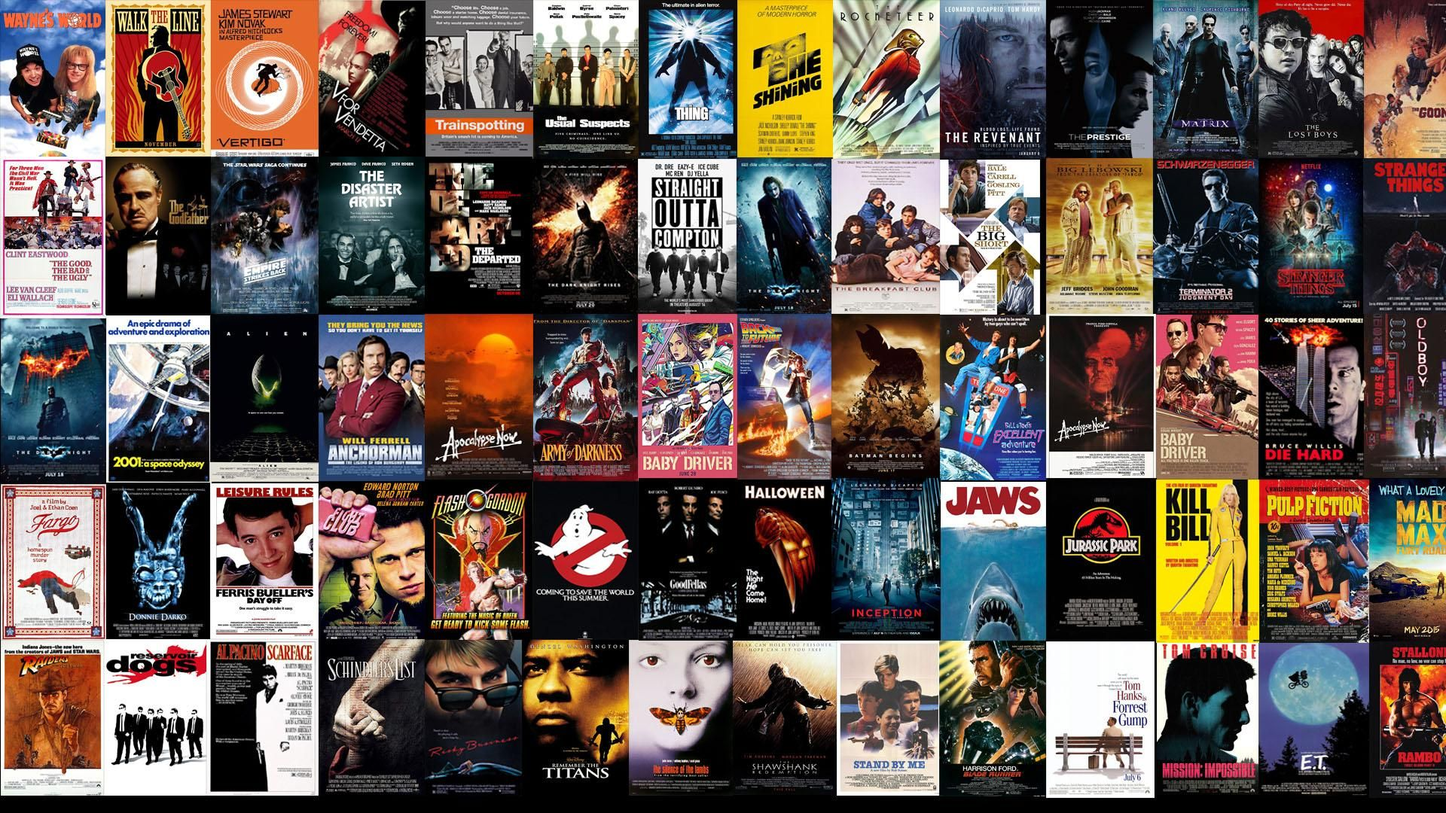
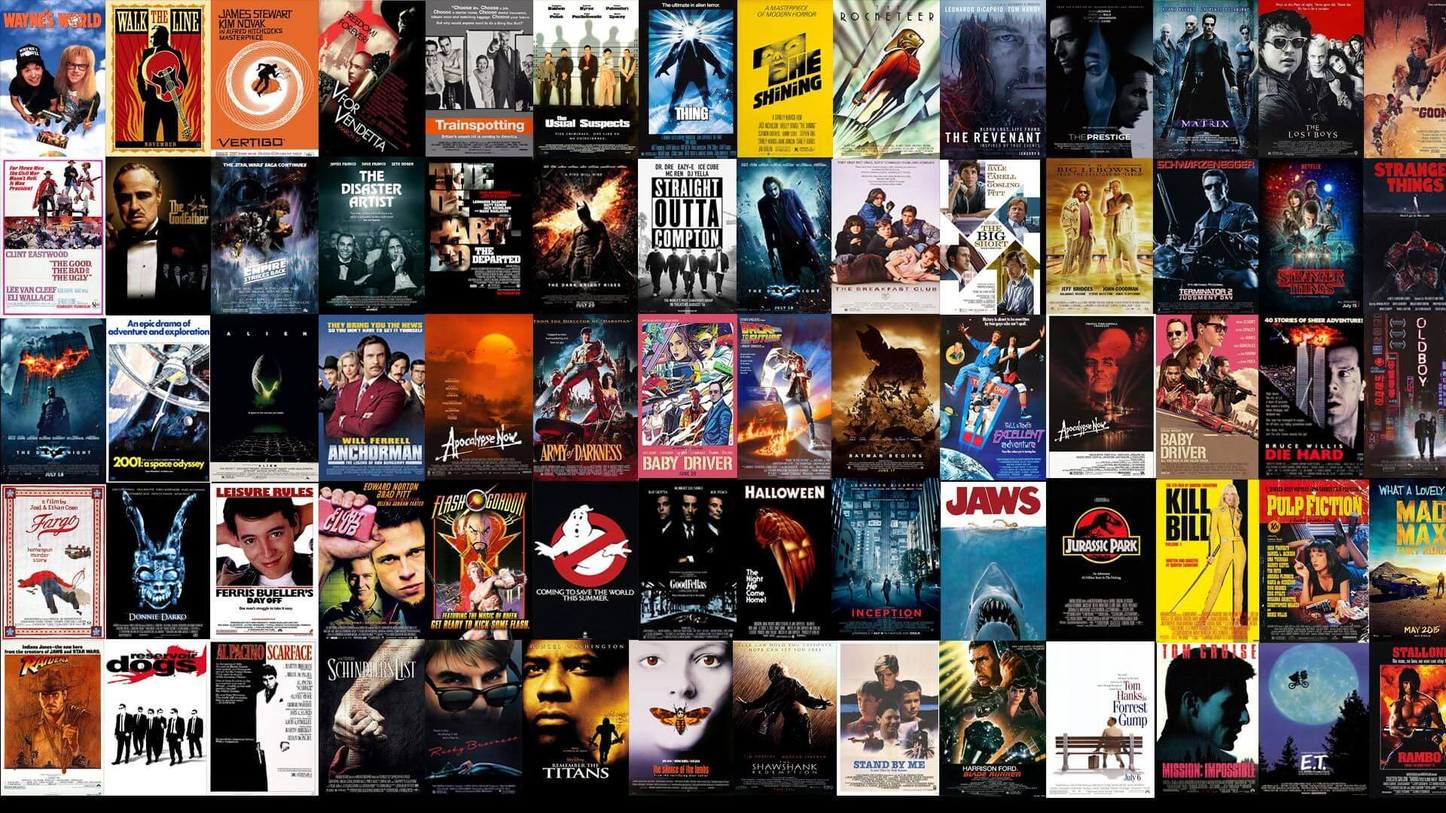
Compress bg poster; Fix styles; Move media-query into single scss file; Rename functions.

diff --git a/src/components/SingleMediaElementList.vue b/src/components/SingleMediaElementList.vue
@@ -2,10 +2,10 @@
   <li>
     <b-card
       text-variant="white"
-      :img-src="img 
-        ? 'https://image.tmdb.org/t/p/w185/' + img 
-        : 'https://d3aa3603f5de3f81cb9fdaa5c591a84d5723e3cb.hosting4cdn.com/wp-content/uploads/2020/11/404-poster-not-found-CG17701-1.png'"
-      :title="caption"
+      :img-src="imgPath 
+        ? 'https://image.tmdb.org/t/p/w185/' + imgPath 
+        : 'https://dummyimage.com/300x450/000/00ff8c'"
+      :title="captionElement"
       class="element"
     >
     </b-card>
@@ -19,12 +19,12 @@ export default {
     element: Object
   },
   computed: {
-    img(){
+    imgPath(){
       return ('profile_path' in this.element) ? this.element.profile_path
         : ('poster_path' in this.element) ? this.element.poster_path
           : "";
     },
-    caption(){
+    captionElement(){
       return ('name' in this.element) ? this.element.name
         : ('title' in this.element) ? this.element.title
           : "";
@@ -34,7 +34,8 @@ export default {
 </script>
   
 <style scoped lang="scss">
-  @import "../assets/scss/variables.scss";
+@import "../assets/scss/variables.scss";
+@import "../assets/scss/carusel-responsive.scss";
   .element {
     height: $cardHeight; 
     width: $cardWidth;
@@ -43,37 +44,14 @@ export default {
     border: 0;
     background: transparent;
   }
-  .card-img, .card-img-bottom { 
+  .card-img,
+  .card-img-bottom { 
     border: 10px solid rgb(97, 47, 183);
     box-shadow: 0px 0px 12px 0px rgba(0,0,0,0.75);
   }
   .card-title {
     height: 60px;
     overflow: hidden;
-  }
-  @media (max-width: 1400px) and (min-width: 991px) {
-    .element {
-      height: $cardHeight*0.85;
-      width: $cardWidth*0.85;
-    }
-  }
-  @media (max-width: 990px) and (min-width: 768px) {
-    .element {
-      height: $cardHeight*0.79;
-      width: $cardWidth*0.79;
-    }
-  }
-  @media (max-width: 767px) and (min-width: 576px) {
-    .element {
-      height: $cardHeight*0.78;
-      width: $cardWidth*0.78;
-    }
-  }
-  @media (max-width: 575px) {
-    .element {
-      height: $cardHeight*0.70;
-      width: $cardWidth*0.70;
-    }
   }
 </style>
   

diff --git a/src/components/Footer.vue b/src/components/Footer.vue
@@ -46,13 +46,12 @@
                 </div>
                 <div class="col-md-5 offset-md-1 mb-3">
                     <form>
-                        <h5>Subscribe to our newsletter</h5>
-                        <p>Monthly digest of what's new and exciting from us.</p>
-                        <div class="d-flex flex-column flex-sm-row w-100 gap-2">
-                            <label for="newsletter" class="visually-hidden">Email address</label>
-                            <input id="newsletter" type="text" class="form-control" placeholder="Email address">
-                            <button class="btn btn-dark" type="button">Subscribe</button>
-                        </div>
+                        <h5>Find movie or actor info</h5>
+                            <SearchForm
+                                :mode="'preview'"
+                                @findMedia="findMedia"
+                                class="searchForm"
+                            />
                     </form>
                 </div>
             </div>
@@ -86,20 +85,44 @@
 </template>
 
 <script>
+import SearchForm from "../components/SearchForm";
 export default {
-    name: "Footer"
+    name: "Footer",
+    components: {
+        SearchForm
+    },
+    methods: {
+        async findMedia(searchData) {
+            if (searchData) {
+                this.$router
+                    .push({
+                    path: "/search",
+                    query: {
+                        searchQuery: searchData.searchQuery,
+                    },
+                    })
+                    .catch(() => {});
+                return;
+            }
+        },
+    }
 }
 </script>
 
 <style scoped lang="scss">
+@import "../assets/scss/variables.scss";
     .container {
         min-width: 100%;
-        background-color: rgb(58, 56, 56);
+        background-color: $darkPurple;
     }
     h5 {
         color: white;
     }
     p {
         color: rgb(184, 184, 184);
+    }
+    .searchForm {
+        background-color: transparent;
+        padding: 0;
     }
 </style>

diff --git a/src/assets/scss/carusel-responsive.scss b/src/assets/scss/carusel-responsive.scss
@@ -1,0 +1,32 @@
+@import "./variables.scss";
+
+@media (max-width: 1400px) and (min-width: 991px) {
+    .element {
+      height: $cardHeight*0.85!important;
+      width: $cardWidth*0.85!important;
+    }
+}
+@media (max-width: 990px) and (min-width: 768px) {
+    .element {
+        height: $cardHeight*0.79!important;
+        width: $cardWidth*0.79!important;
+    }
+}
+@media (max-width: 767px) and (min-width: 576px) {
+    .element {
+        height: $cardHeight*0.78!important;
+        width: $cardWidth*0.78!important;
+    }
+}
+@media (max-width: 575px) and (min-width: 376px) {
+    .element {
+        height: $cardHeight*0.70!important;
+        width: $cardWidth*0.70!important;
+    }
+}
+@media (max-width: 375px) {
+    .element {
+        height: $cardHeight*0.71!important;
+        width: $cardWidth*0.71!important;
+    }
+}

diff --git a/src/views/HomeView.vue b/src/views/HomeView.vue
@@ -31,6 +31,7 @@
         route="/movie/"
         :elements="movies" 
         :changePage="changeMoviesPage"
+        class="pb-5"
       />
     </section>
   </div>
@@ -112,6 +113,10 @@ export default {
 .main {
   &__top {
     background-image: url(../assets/poster.jpg);
+    -webkit-background-size: cover;
+    -moz-background-size: cover;
+    -o-background-size: cover;
+    background-size: cover;
     padding-top: 6rem;
     padding-bottom: 6rem;
     position: relative;

diff --git a/src/components/SearchForm.vue b/src/components/SearchForm.vue
@@ -4,7 +4,7 @@
       <div class="search-form">
         <div class="jumbotron">
           <h1 class="display-4" v-if="mode !== 'preview'">Find media</h1>
-          <div class="d-grid d-sm-flex justify-content-sm-center search-form__filters">
+          <div class="d-grid d-sm-flex justify-content-sm-center search-form__filters input-group-lg">
             <b-form-input
               v-model="searchQuery"
               placeholder="Type movie or actor title here"
